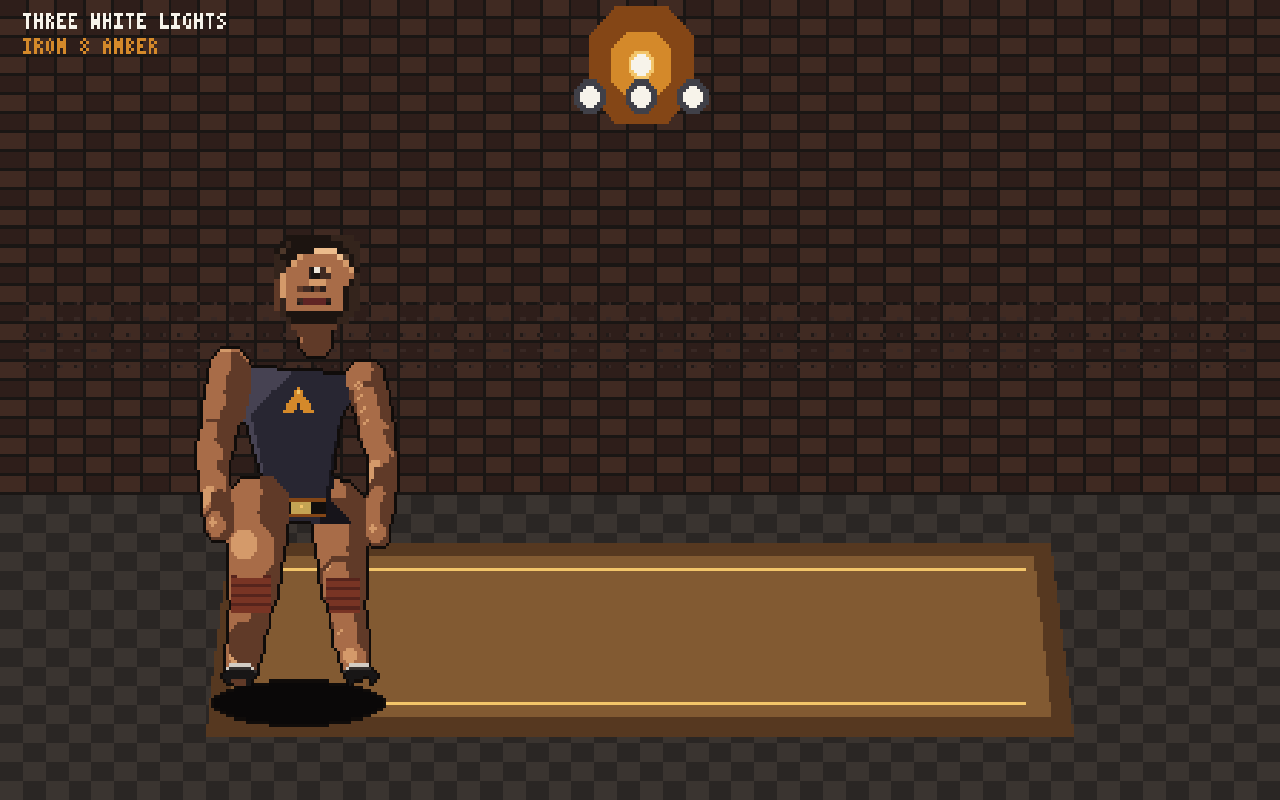
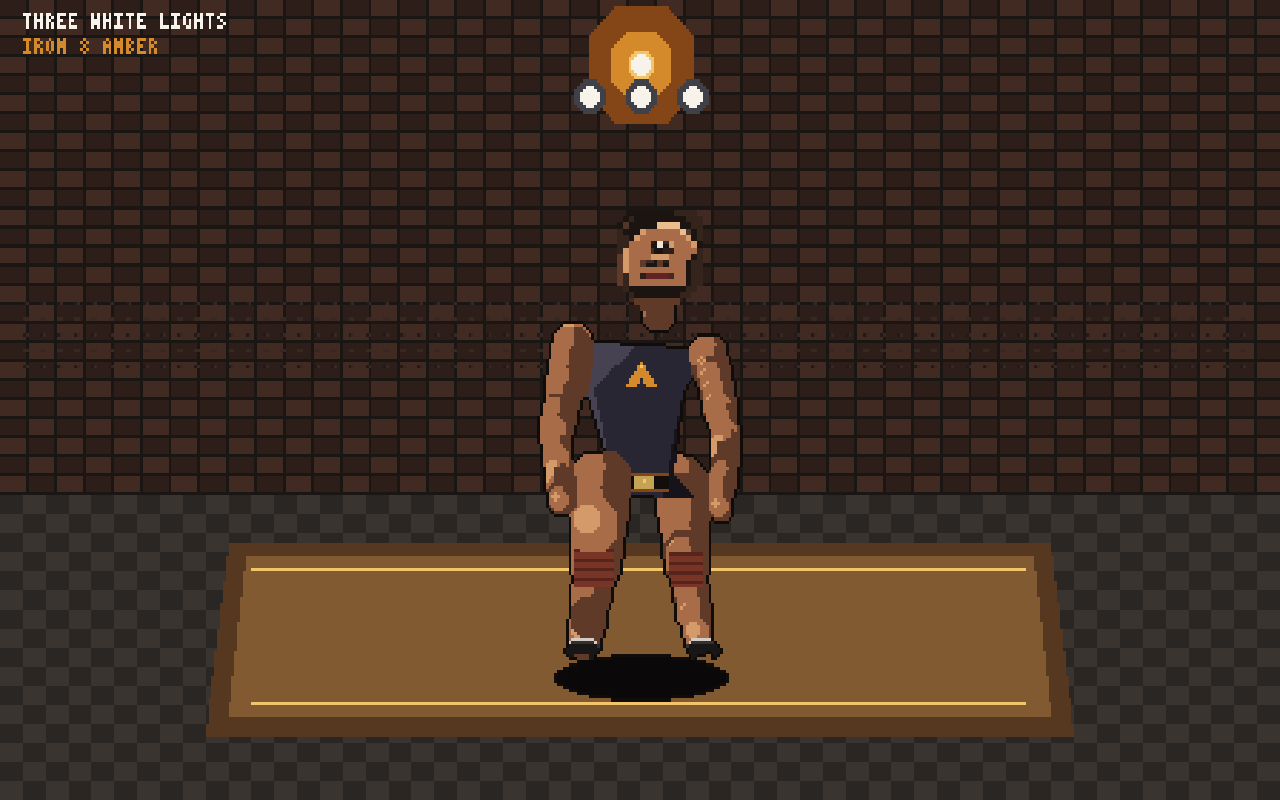
arcade: center title-wide identity and add viewport evidence
Keep the fictional athlete in the 1280 desktop cover crop, and store
390x844 / 1280x800 browser captures next to the 320 and 104 evidence.

Changed region(s): [[0.4062, 0.25, 0.5938, 0.875], [0.125, 0.2812, 0.3125, 0.9062]]

diff --git a/arcade/art-source/internal-draw-index/draw_then_index.py b/arcade/art-source/internal-draw-index/draw_then_index.py
@@ -967,7 +967,7 @@ def render_title_portrait() -> Pix:
 def render_title_wide() -> Pix:
     p = Pix(448, 252)
     gym_backdrop(p, 448, 252)
-    blit(p, render_identity(), 24, 70)
+    blit(p, render_identity(), 144, 62)
     return p
 
 

diff --git a/arcade/evidence/internal-draw-index-sprint/EVIDENCE.md b/arcade/evidence/internal-draw-index-sprint/EVIDENCE.md
@@ -24,7 +24,18 @@
 | Title 390×844 approx | `arcade/evidence/internal-draw-index-sprint/after/title-390x844-cover-approx.png` |
 | Title 1280×800 approx | `arcade/evidence/internal-draw-index-sprint/after/title-wide-1280x800-cover-approx.png` |
 
-Browser captures of the running app (390×844 and 1280×800) are added after the first commit, under `after/browser/`.
+Browser captures of the running app:
+
+| Viewport | Screen | Path |
+| --- | --- | --- |
+| 390×844 | Title | `after/browser/mobile-390x844-title.png` |
+| 390×844 | Lift select (cards) | `after/browser/mobile-390x844-lift-select.png` |
+| 390×844 | Lift select full | `after/browser/mobile-390x844-lift-select-full.png` |
+| 390×844 | Squat attempts / stage | `after/browser/mobile-390x844-squat-attempts.png` |
+| 1280×800 | Title | `after/browser/desktop-1280x800-title.png` |
+| 1280×800 | Lift select | `after/browser/desktop-1280x800-lift-select.png` |
+
+`arcade npm test`: 53/53 + `check_sprites.py` ok. `feel.ts` untouched.
 
 ## Corrections vs 1151569
 
